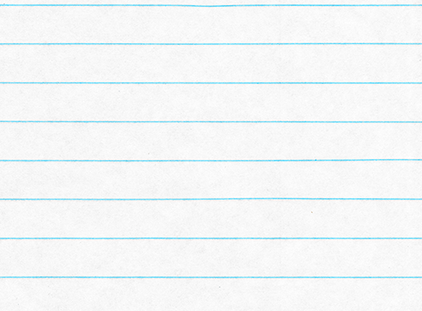
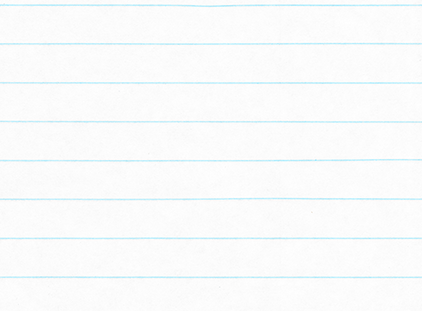
toned down background images directly

diff --git a/moreinfo.html b/moreinfo.html
@@ -61,7 +61,7 @@
 
 			<ul>
 				<li>Conversations could veer into uncomfortable territory.</li>
-				<li>Be prepared to hear things that you don't personally agree with.</li>
+				<li>Expect to hear things that you don't personally agree with.</li>
 				<li>Listen, don't try to argue or escalate. Our goal is to understand feelings, not change them.</li>
 				<li>Protect yourself. Work in pairs, in a public place.</li>
 			</ul>

diff --git a/main.css b/main.css
@@ -5,12 +5,6 @@ html {
 }
 
 body {
-	background-color: rgba(255, 255, 255, 0.5);
-	margin: 0px;
-	margin-top: -1em;
-}
-
-main, header, footer {
 	font-family: "Helvetica Neue", Helvetica, Arial, sans-serif;
 	max-width: 750px;
 	width: 65%;
@@ -26,7 +20,7 @@ h1 {
 	font-size: 5em;
 	line-height: 1.0;
 	padding-top: 0.7em;
-	margin-top: 0em;
+	margin-top: -0.25em;
 }
 
 h1 a {
